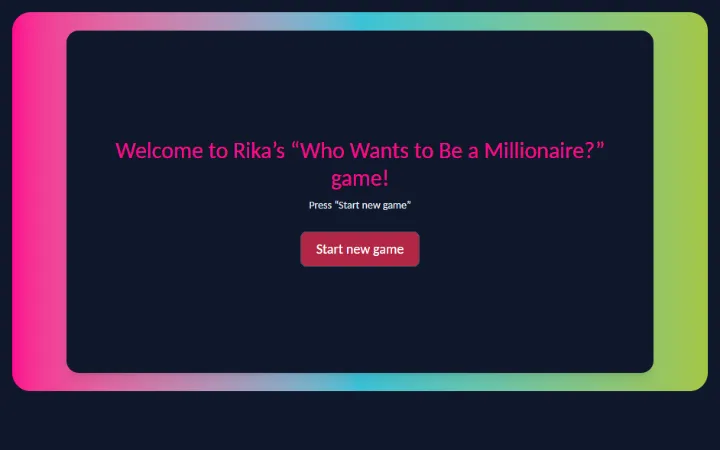
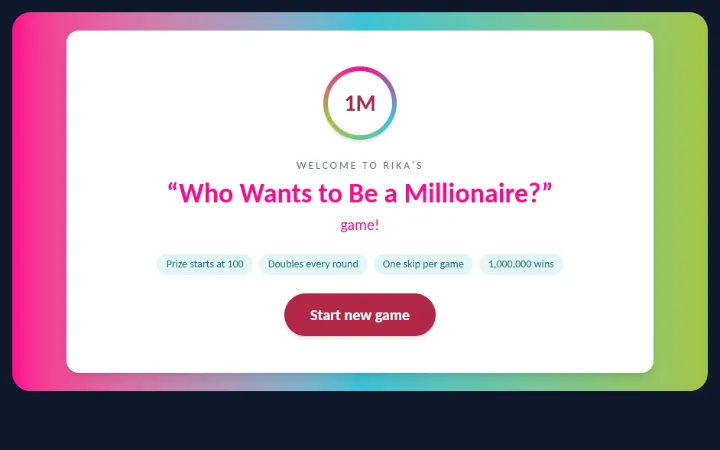
Polish the quiz, the code buttons and the phone form
- Legacy previews: Desktop lays the page out at a real 1280px desktop
  width and scales it to fit, so HW05 shows its desktop layout there.
- HW08: an emblem, a clearer title, the rules as chips, a bigger start
  button; answers as A–D pills, the prizes as chips, an emoji for the
  end of a game.
- The code toggle of the example tables is a labelled "</> Code" pill
  with a turning arrow, a visible Code column and a hint above.
- HW14: a smaller phone form with a set width, so its placeholder fits.

diff --git a/src/homework/hw08-quiz-game/QuizGame.tsx b/src/homework/hw08-quiz-game/QuizGame.tsx
@@ -1,81 +1,149 @@
-import { useReducer } from 'react'
+import { type ReactNode, useReducer } from 'react'
 import { cx } from '../../components/ui'
 import { questions } from './questions'
-import { formatPrize, initialQuizState, type QuizState, quizReducer } from './quiz'
+import {
+  formatPrize,
+  initialQuizState,
+  type QuizState,
+  quizReducer,
+  START_PRIZE,
+  WINNING_PRIZE,
+} from './quiz'
 
 const random = () => Math.random()
+const LETTERS = ['A', 'B', 'C', 'D']
 
-function getMessage(state: QuizState) {
+const RULES = [
+  `Prize starts at ${formatPrize(START_PRIZE)}`,
+  'Doubles every round',
+  'One skip per game',
+  `${formatPrize(WINNING_PRIZE)} wins`,
+]
+
+/** The end of a game: the messages of the task, with a little emoji. */
+function getEnding(state: QuizState): { emoji: string; message: string } | null {
   switch (state.status) {
-    case 'idle':
-      return 'Welcome to Rika’s “Who Wants to Be a Millionaire?” game!'
     case 'lost':
-      return `Game over. Your prize is: ${formatPrize(state.totalPrize)}`
+      return { emoji: '💸', message: `Game over. Your prize is: ${formatPrize(state.totalPrize)}` }
     case 'won':
-      return `Congratulations! You won ${formatPrize(state.totalPrize)}!`
+      return { emoji: '🏆', message: `Congratulations! You won ${formatPrize(state.totalPrize)}!` }
     case 'outOfQuestions':
-      return `No more questions left. Your prize is: ${formatPrize(state.totalPrize)}`
+      return {
+        emoji: '📭',
+        message: `No more questions left. Your prize is: ${formatPrize(state.totalPrize)}`,
+      }
     default:
       return null
   }
 }
 
+/**
+ * The look of the original: a frame in the EPAM colors around a white card, magenta text and
+ * burgundy buttons. The card stays light in the dark theme too, like the other original pages.
+ */
 export default function QuizGame() {
   const [state, dispatch] = useReducer(quizReducer, initialQuizState)
-  const message = getMessage(state)
-  const playing = state.status === 'playing' && state.current
+  const ending = getEnding(state)
+  const current = state.status === 'playing' ? state.current : null
+  const start = () => dispatch({ type: 'start', questions, random })
 
   return (
     <div className="rounded-3xl bg-linear-to-r from-[#fc098f] via-[#39c2d7] to-[#a3c644] p-3 sm:p-6">
-      <div className="mx-auto flex min-h-[28rem] max-w-3xl flex-col items-center justify-center gap-6 rounded-2xl bg-white p-6 text-center text-slate-700 shadow-lg dark:bg-slate-900 dark:text-slate-200">
-        {message && (
-          <div>
-            <p className="text-2xl text-[#fc098f] sm:text-3xl">{message}</p>
-            <p className="mt-2 text-sm">
-              Press “Start new game”{state.status === 'idle' ? '' : ' to play again'}
-            </p>
-          </div>
+      <div className="mx-auto flex min-h-[28rem] max-w-3xl flex-col items-center justify-center gap-6 rounded-2xl bg-white p-6 text-center text-slate-700 shadow-lg">
+        {state.status === 'idle' && (
+          <>
+            <Emblem />
+            <div>
+              <p className="text-sm tracking-[0.2em] text-slate-500 uppercase">Welcome to Rika’s</p>
+              <h3 className="mt-1 text-3xl leading-tight font-bold text-[#fc098f] sm:text-4xl">
+                “Who Wants to Be a Millionaire?”
+              </h3>
+              <p className="mt-1 text-xl text-[#fc098f]">game!</p>
+            </div>
+            <ul className="flex flex-wrap justify-center gap-2 text-sm" aria-label="Rules">
+              {RULES.map((rule) => (
+                <li key={rule} className="rounded-full bg-[#39c2d7]/15 px-3 py-1 text-[#1b6f7c]">
+                  {rule}
+                </li>
+              ))}
+            </ul>
+            <GameButton size="large" onClick={start}>
+              Start new game
+            </GameButton>
+          </>
         )}
 
-        {playing && state.current && (
+        {ending && (
           <>
-            <p className="text-xl text-[#fc098f] sm:text-2xl">{state.current.question}</p>
+            <p aria-hidden="true" className="text-6xl">
+              {ending.emoji}
+            </p>
+            <p className="text-2xl font-bold text-[#fc098f] sm:text-3xl">{ending.message}</p>
+            <GameButton size="large" onClick={start}>
+              Start new game
+            </GameButton>
+          </>
+        )}
+
+        {current && (
+          <>
+            <div className="flex w-full flex-wrap justify-between gap-2 text-sm">
+              <span className="rounded-full bg-[#39c2d7]/15 px-3 py-1 text-[#1b6f7c]">
+                Total prize: <b data-testid="total-prize">{formatPrize(state.totalPrize)}</b>
+              </span>
+              <span className="rounded-full bg-[#a3c644]/25 px-3 py-1 text-[#46600f]">
+                Prize on current round: <b>{formatPrize(state.roundPrize)}</b>
+              </span>
+            </div>
+            <p className="w-full rounded-2xl border-2 border-[#fc098f]/30 px-5 py-4 text-xl font-semibold text-slate-800 sm:text-2xl">
+              {current.question}
+            </p>
             <div className="grid w-full gap-3 sm:grid-cols-2">
-              {state.current.answers.map((answer, index) => (
+              {current.answers.map((answer, index) => (
                 <button
                   key={answer}
                   type="button"
                   onClick={() => dispatch({ type: 'answer', index, random })}
-                  className="cursor-pointer rounded-lg border border-slate-600 bg-[#b22746] px-4 py-3 text-lg text-white hover:bg-[#8e244d]"
+                  className="group flex cursor-pointer items-center gap-3 rounded-full border-2 border-[#b22746] bg-white py-2 pr-4 pl-2 text-left text-lg text-slate-800 transition-colors hover:bg-[#b22746] hover:text-white"
                 >
+                  <span
+                    aria-hidden="true"
+                    className="grid size-8 shrink-0 place-items-center rounded-full bg-[#b22746] text-sm font-bold text-white group-hover:bg-white group-hover:text-[#b22746]"
+                  >
+                    {LETTERS[index]}
+                  </span>
                   {answer}
                 </button>
               ))}
             </div>
-            <dl className="grid grid-cols-[auto_auto] gap-x-2 text-sm text-[#2a9fb1]">
-              <dt className="text-right">Total prize:</dt>
-              <dd className="text-left font-bold" data-testid="total-prize">
-                {formatPrize(state.totalPrize)}
-              </dd>
-              <dt className="text-right">Prize on current round:</dt>
-              <dd className="text-left font-bold">{formatPrize(state.roundPrize)}</dd>
-            </dl>
+            <div className="flex flex-wrap justify-center gap-3">
+              <GameButton
+                variant="outline"
+                disabled={state.skipUsed}
+                onClick={() => dispatch({ type: 'skip', random })}
+              >
+                Skip question
+              </GameButton>
+              <GameButton variant="outline" onClick={start}>
+                Start new game
+              </GameButton>
+            </div>
           </>
         )}
+      </div>
+    </div>
+  )
+}
 
-        <div className="flex flex-wrap justify-center gap-3">
-          <GameButton onClick={() => dispatch({ type: 'start', questions, random })}>
-            Start new game
-          </GameButton>
-          {playing && (
-            <GameButton
-              disabled={state.skipUsed}
-              onClick={() => dispatch({ type: 'skip', random })}
-            >
-              Skip question
-            </GameButton>
-          )}
-        </div>
+/** A million-dollar coin in the EPAM colors. */
+function Emblem() {
+  return (
+    <div
+      aria-hidden="true"
+      className="grid size-24 place-items-center rounded-full bg-[conic-gradient(#fc098f,#39c2d7,#a3c644,#fc098f)] p-1.5 shadow-md"
+    >
+      <div className="grid size-full place-items-center rounded-full bg-white text-3xl font-bold text-[#b22746]">
+        1M
       </div>
     </div>
   )
@@ -85,10 +153,14 @@ function GameButton({
   children,
   disabled,
   onClick,
+  size = 'normal',
+  variant = 'filled',
 }: {
-  children: string
+  children: ReactNode
   disabled?: boolean
   onClick: () => void
+  size?: 'normal' | 'large'
+  variant?: 'filled' | 'outline'
 }) {
   return (
     <button
@@ -96,10 +168,11 @@ function GameButton({
       disabled={disabled}
       onClick={onClick}
       className={cx(
-        'rounded-lg border border-slate-600 px-5 py-2 text-lg text-white',
-        disabled
-          ? 'cursor-not-allowed bg-slate-400'
-          : 'cursor-pointer bg-[#b22746] hover:bg-[#8e244d]',
+        'cursor-pointer rounded-full border-2 font-semibold transition disabled:cursor-not-allowed',
+        size === 'large' ? 'px-8 py-3 text-xl shadow-md hover:-translate-y-0.5' : 'px-5 py-2',
+        variant === 'filled'
+          ? 'border-[#b22746] bg-[#b22746] text-white hover:bg-[#8e244d]'
+          : 'border-[#b22746] text-[#b22746] hover:bg-[#b22746] hover:text-white disabled:border-slate-300 disabled:text-slate-400 disabled:hover:bg-transparent',
       )}
     >
       {children}

diff --git a/src/components/ExampleTable.tsx b/src/components/ExampleTable.tsx
@@ -34,29 +34,32 @@ export function isPassing(example: Example) {
  */
 export function ExampleTable({ examples, source }: { examples: Example[]; source?: string }) {
   return (
-    <div className="overflow-x-auto rounded-2xl border border-slate-200 dark:border-slate-800">
-      <table className="w-full text-left text-sm">
-        <thead className="bg-slate-100 text-slate-600 dark:bg-slate-800 dark:text-slate-300">
-          <tr>
-            <th className="px-4 py-2 font-semibold">Call</th>
-            <th className="px-4 py-2 font-semibold">Result</th>
-            <th className="px-4 py-2 font-semibold">Expected</th>
-            <th className="px-4 py-2 font-semibold">
-              <span className="sr-only">Status</span>
-            </th>
-            {source && (
+    <div>
+      {source && (
+        <p className="mb-2 text-sm text-slate-600 dark:text-slate-400">
+          Every example runs live. Open <b>Code</b> on a row to see the function behind it.
+        </p>
+      )}
+      <div className="overflow-x-auto rounded-2xl border border-slate-200 dark:border-slate-800">
+        <table className="w-full text-left text-sm">
+          <thead className="bg-slate-100 text-slate-600 dark:bg-slate-800 dark:text-slate-300">
+            <tr>
+              <th className="px-4 py-2 font-semibold">Call</th>
+              <th className="px-4 py-2 font-semibold">Result</th>
+              <th className="px-4 py-2 font-semibold">Expected</th>
               <th className="px-4 py-2 font-semibold">
-                <span className="sr-only">Code</span>
+                <span className="sr-only">Status</span>
               </th>
-            )}
-          </tr>
-        </thead>
-        <tbody className="divide-y divide-slate-200 bg-white font-mono dark:divide-slate-800 dark:bg-slate-900">
-          {examples.map((example) => (
-            <ExampleRow key={example.call} example={example} source={source} />
-          ))}
-        </tbody>
-      </table>
+              {source && <th className="px-4 py-2 font-semibold">Code</th>}
+            </tr>
+          </thead>
+          <tbody className="divide-y divide-slate-200 bg-white font-mono dark:divide-slate-800 dark:bg-slate-900">
+            {examples.map((example) => (
+              <ExampleRow key={example.call} example={example} source={source} />
+            ))}
+          </tbody>
+        </table>
+      </div>
     </div>
   )
 }

diff --git a/src/homework/hw14-dom-events/PhoneChecker.tsx b/src/homework/hw14-dom-events/PhoneChecker.tsx
@@ -27,7 +27,9 @@ export function PhoneChecker() {
   }
 
   return (
-    <div className="w-full max-w-[32rem]">
+    // A set width: the tabs share one grid cell that shrinks to its content, so w-full would
+    // squeeze the field until its placeholder no longer fits.
+    <div className="w-[33rem] max-w-full">
       <p
         role="status"
         className={cx(
@@ -39,7 +41,7 @@ export function PhoneChecker() {
       >
         {notification?.text}
       </p>
-      <form onSubmit={handleSubmit} noValidate className="flex gap-4 font-verdana">
+      <form onSubmit={handleSubmit} noValidate className="flex gap-3 font-verdana">
         <input
           type="tel"
           aria-label="Phone number"
@@ -49,14 +51,14 @@ export function PhoneChecker() {
           onChange={(event) => handleChange(event.target.value)}
           aria-invalid={notification?.type === 'error'}
           className={cx(
-            'h-16 min-w-0 flex-1 border-2 bg-white px-1 text-lg outline-none sm:h-20 sm:text-[1.3rem]',
+            'h-14 min-w-0 flex-1 border-2 bg-white px-2 text-base outline-none',
             notification?.type === 'error' ? 'border-[#de4388]' : 'border-black',
           )}
         />
         <button
           type="submit"
           disabled={!isValid}
-          className="h-16 w-24 shrink-0 cursor-pointer border-2 border-black bg-[#e8e6eb] text-lg disabled:cursor-not-allowed disabled:text-[#8a8a8a] sm:h-20 sm:text-[1.3rem]"
+          className="h-14 w-20 shrink-0 cursor-pointer border-2 border-black bg-[#e8e6eb] text-base disabled:cursor-not-allowed disabled:text-[#8a8a8a]"
         >
           Send
         </button>

diff --git a/src/components/CodeToggle.tsx b/src/components/CodeToggle.tsx
@@ -1,6 +1,6 @@
 import { cx } from './ui'
 
-/** The `</>` button that opens or closes the code of a function. */
+/** The `</> Code` button that opens or closes the code of a function, with a turning arrow. */
 export function CodeToggleButton({
   name,
   open,
@@ -23,11 +23,19 @@ export function CodeToggleButton({
       title={label}
       onClick={onToggle}
       className={cx(
-        'cursor-pointer whitespace-nowrap rounded-md px-2 py-1 font-bold font-mono text-xs',
-        open ? 'bg-accent text-white' : 'text-link hover:bg-accent-soft dark:hover:bg-slate-800',
+        'inline-flex cursor-pointer items-center gap-1.5 whitespace-nowrap rounded-full border px-2.5 py-0.5 font-sans font-semibold text-xs transition-colors',
+        open
+          ? 'border-accent bg-accent text-white'
+          : 'border-link text-link hover:bg-accent-soft dark:hover:bg-slate-800',
       )}
     >
-      {'</>'}
+      <span aria-hidden="true" className="font-mono">
+        {'</>'}
+      </span>
+      Code
+      <span aria-hidden="true" className={cx('transition-transform', open && 'rotate-90')}>
+        ▸
+      </span>
     </button>
   )
 }

diff --git a/src/components/LegacyFrame.tsx b/src/components/LegacyFrame.tsx
@@ -2,8 +2,10 @@ import { type RefObject, useCallback, useEffect, useRef, useState } from 'react'
 import type { LegacyPage } from '../homeworkList'
 import { cx } from './ui'
 
+// Desktop is a real desktop width (the desktop breakpoint of the responsive homework, HW05),
+// not the width of the box: a narrower box shows it scaled down, like the other two.
 const DEVICES = [
-  { label: 'Desktop', width: undefined },
+  { label: 'Desktop', width: 1280 },
   { label: 'Tablet', width: 768 },
   { label: 'Mobile', width: 375 },
 ] as const
@@ -78,7 +80,7 @@ export function LegacyFrame({ page, title }: { page: LegacyPage; title: string }
     }
   }
 
-  // The page is laid out at the width of the chosen screen (the whole box on Desktop), but never
+  // The page is laid out at the width of the chosen screen, but never
   // narrower than it was built for: a desktop-only page is drawn at its own width and scaled down
   // to fit, the way a phone shows a desktop site. Wider screens than the box are scaled down too.
   const screenWidth = device.width ?? boxWidth

diff --git a/src/components/LegacyFrame.test.tsx b/src/components/LegacyFrame.test.tsx
@@ -47,4 +47,10 @@ describe('LegacyFrame', () => {
     expect(frame.style.transform).toBe('')
     expect(screen.queryByText(/built for screens/)).not.toBeInTheDocument()
   })
+
+  it('lays a page out at a real desktop width on Desktop', () => {
+    render(<LegacyFrame page={{ src: 'legacy/page.html' }} title="Desktop" />)
+    expect(screen.getByRole('button', { name: 'Desktop' })).toHaveAttribute('aria-pressed', 'true')
+    expect(screen.getByTitle('Desktop').style.width).toBe('1280px')
+  })
 })
